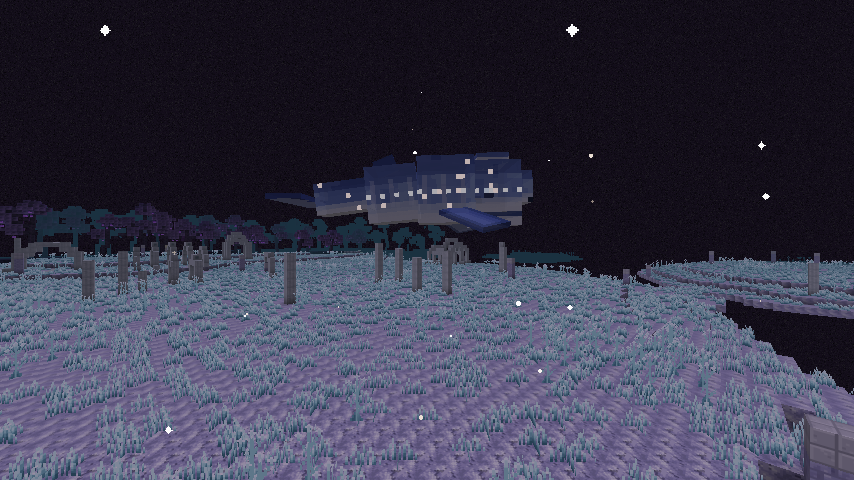
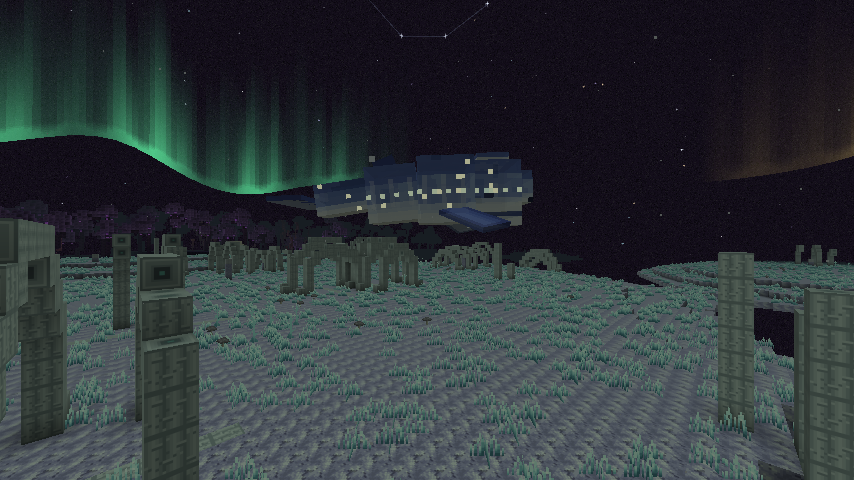
Phase 10 batch D, part 2: docs, Modrinth page and 1.0.0-beta.2
- README: the Phase 10 section (cuts, renames, new biomes and content,
  reworks, music credits) with in-game screenshots; status updated.
- Modrinth: description rewritten for beta.2, gallery refreshed (Chorus
  Thicket, Glimmering Crags, Resonant Spire, Whalefall; new screenshots for
  the rest), changelog for 1.0.0-beta.2.
- Version 1.0.0-beta.2. Trailer edit list gains the new biomes, the Spire
  Wyrm, the Resonant Spire and the Whalefall; the survey shoots the Wyrm.

Claude-Session: https://claude.ai/code/session_0155WfD2TeFRTvCBedvK2Yiv

diff --git a/src/main/java/com/ggrantrichards/astralend/dev/WorldgenSurvey.java b/src/main/java/com/ggrantrichards/astralend/dev/WorldgenSurvey.java
@@ -378,6 +378,7 @@ public final class WorldgenSurvey {
         mobShot(lines, areas.get('W'), end, "hollow", 3.0, 1.6, 2.0);
         mobShot(lines, areas.get('A'), end, "drift_whale side", 11.0, 7.0, 7.5);
         mobShot(lines, areas.get('N'), end, "watcher", 6.5, 0.5, 2.6);
+        mobShot(lines, areas.get('G'), end, "spire_wyrm", 16.0, 6.0, 5.0);
         mobShot(lines, areas.get('W'), end, "live_comet side", 14.0, 14.0, 4.0);
         // Phase 5: the sky and Sunstorms.
         skyShot(lines, areas.get('A'), "sky_ashen_barrens", -45.0F, -32.0F, null, "flare=calm");

diff --git a/tools/release/modrinth.py b/tools/release/modrinth.py
@@ -21,7 +21,7 @@ API = os.environ.get("MODRINTH_API", "https://api.modrinth.com/v2")   # overrida
 ROOT = Path(__file__).resolve().parents[2]
 SLUG = "the-astral-end"
 TITLE = "The Astral End"
-SUMMARY = ("The End, expanded: six new biomes, new creatures, a living sky with auroras and "
+SUMMARY = ("The End, expanded: seven new biomes, new creatures, a boss, a living sky with auroras and "
            "sunstorms, live comets, and ruins to explore.")
 GAME_VERSIONS = ["26.3"]
 LOADERS = ["forge"]

diff --git a/README.md b/README.md
@@ -4,36 +4,8 @@ A Forge mod for **Minecraft Java Edition 26.3** with **Forge 66.0.8** that expan
 into a sparse, mysterious network of astral islands. The full plan is in
 [docs/END_UPDATE.md](docs/END_UPDATE.md).
 
-**Status:** phases 1-9 done: biomes, mobs, the sky and Stellar Flares, structures, live comets, Starforging, and a polish pass. Mod ID: `astralend`.
-
-**Next, Phase 10: the Mojang pass.** Every feature gets held to what a real Mojang End update would
-ship: the hazards are defanged (no Flare Burn, no comet landfall, no Stalker void knockback), the
-materials consolidate to about three, Starforging gives way to a single smithing-table upgrade (Void
-Recall stays, on its own), the Black Hole Guardian, the Watcher, Comet Ice, the Cinder Mite and the
-inversion pockets are cut, the science names go, and the missing pieces come in: ties to the vanilla
-End (End Cities, chorus, gateways), music and ambience, and a reason to come back. The full list is in
-[the plan, section 14.1](docs/END_UPDATE.md#141-phase-10-the-mojang-pass).
-
-**Then Phase 11: new additions.** What a real End update would add, held to the same rules (fix the
-End's real problems, build on the vanilla End, a small sharp list, fantasy names, no unfair deaths or
-power creep) and keeping the End alien and stagnant, not lush:
-
-- **Biomes:** the vanilla barrens and highlands reworked into the **Ashen Barrens** (Ashdust muffles every
-  sound and blocks sculk vibrations) and the **Chorus Thicket** (brittle, bleached Chorus trees, Chorus
-  Wood, fall-cushioning Chorus Moss); new **Glimmering Crags** (dark teal **Nightstone**, Resonance
-  Crystals) and **Obsidian Wastes** (the Endermen's home, Fossilized End Ships).
-- **Mobs:** the **Drifter**, a void mount you hook with a fishing rod or saddle and steer with a Chorus
-  Flower on a Stick; the **Weaver**, whose Levitation Webs you can Silk Touch into jump pads; the
-  **Keeper**, an End City guardian that grounds gliders only over land; sparse **Chorus Moths**.
-- **Materials:** **Resonance Crystal** and **Rift Shards** (mined from island undersides; Rift Thread makes
-  an elytra wear 50% slower, nothing more).
-- **Blocks:** **Voidgel** (levitation pads), **End Chimes** (stop Endermen teleporting nearby), and the
-  **Resonance Anchor** (an Ender Pearl lays a 30-second bridge of light to it).
-- **The Resonant Spires**, climbed with webs, Voidgel and shulker bullets, with a **Resonance Vault** at
-  the top opened by a Weaver's key: banner patterns, a glowing cosmetic trim and a new music disc.
-- **Music and soundscapes** for all of it.
-
-The full spec is in [the plan, section 14.2](docs/END_UPDATE.md#142-phase-11-new-additions).
+**Status:** phases 1-10 done. Mod ID: `astralend`. Phase 10 reworked the whole mod toward what a real
+Mojang End update would ship - see [Phase 10](#phase-10-the-rework) below, which also lists every rename.
 
 [![Fifteen seconds of the trailer, filmed in the game. Click for the full trailer on YouTube.](docs/modrinth/teaser.webp)](https://youtu.be/ZUQVTpnqRTQ)
 
@@ -41,7 +13,7 @@ The full spec is in [the plan, section 14.2](docs/END_UPDATE.md#142-phase-11-new
 
 ## Get it
 
-The first public build, **1.0.0-beta.1**, is published to Modrinth as
+The current build, **1.0.0-beta.2**, is published to Modrinth as
 [**The Astral End**](https://modrinth.com/mod/the-astral-end) (a beta: blocks and items may still be
 renamed or removed before 1.0, so back up worlds you care about). It needs **Minecraft 26.3** and
 **Forge 66** or newer, on both the client and the server. MIT licensed (see [LICENSE](LICENSE)).
@@ -52,6 +24,77 @@ project page lives in [docs/modrinth/](docs/modrinth/): the icon, the gallery, t
 changelog for each version.
 
 ## What's in the mod so far
+
+The sections below run newest first. Older ones describe things as they were at the time; Phase 10
+renamed or removed some of them.
+
+### Phase 10: the rework
+
+**Cut:** the clockwork Orrery cluster (the Abandoned Orrery, Orrery Bronze and its family, the Orrery
+Heart, Shutters and Lamp, the Orrery Sentinel), and Comet Ice (comets bring vanilla blue ice now).
+
+**Renamed:**
+
+| Was | Now |
+|---|---|
+| Dark Matter Belt | Hollow Isles |
+| Aurora Shallows | Ashen Barrens |
+| Black Hole Guardian | The Hollow |
+| Corona Skimmer, Skimmer Film | Void Ray, Ray Film |
+| Singularity Shard | Abyss Shard |
+| Wormhole Maw | Rift Maw |
+| Gravity Anomaly / inversion pockets | Upwell Core / Upwells |
+| Stellar Flares, Flare Burn, Flare Ward | Sunstorms, Sunburn, Sun Ward |
+| Umbral Stone | Nightstone |
+| Nebula Moss | Chorus Moss |
+
+**New biomes** (the outer End now has seven):
+
+- **Chorus Thicket**, the Nebula Fields' sister: chorus trees of pale, glassy **Chorus Wood** (a full
+  wood set, regrown from **Chorus Sprouts**) crowned with Chorus Bloom, vanilla chorus between them.
+- **Glimmering Crags**: islands bristling with jagged Nightstone peaks grown through with teal
+  **Glimmer Crystal**. **Void Crystal** grows only here now, in the very bottoms of the islands, with a
+  Glimmer Cluster hanging under it to give it away.
+- The **Shattered Observatory** is a rare structure now, not a biome: the Cartographers' domed hall in a
+  ring of fallen quartz pillars, overgrown with Starblooms, watched over by shulkers - and the Watcher.
+- The **Ashen Barrens** are the dead country: no Pollinators, no Endermen, ash in the air, withered
+  Lumineshrooms, more bones. The auroras stay.
+
+**New things:**
+
+- **The Resonant Spires** (Glimmering Crags): ninety-block hollow towers with no stairs - climb them on
+  shulker bullets or a Potion of Upwelling - and the **Spire Wyrm** at the top, a serpent kin of the
+  Ender Dragon. It coils through the tower, lunges, and breathes lingering void breath; flying it takes
+  half damage, but **ring a bell** on a ledge as it passes and it crashes, stunned, onto the ledge. It
+  drops the **Resonant Key** for the **Resonance Vault**: the Wyrm and Spire banner patterns, the
+  **Eclipse** armor trim, the music disc **"Observing the Star"**, a Starforge Template and more.
+- **The Whalefall** is a landmark now: the skeleton of a Star Leviathan adrift in the void, about 100
+  blocks high and 300 long, its skull hollowed into floors and a village built on decks in its ribcage.
+- **Potion of Upwelling**, brewed from **Upwell Motes** that drift up through Upwells: gravity reversed,
+  up to 20 blocks (hit a ceiling and it hurts like a fall), then Slow Falling as it wears off.
+- **Voidgel**: bouncy jelly from island undersides that also gives Slow Falling.
+- **End Chimes** (End Rods and amethyst): light and a low hum; a teleport within 16 blocks rings them,
+  and nothing else teleports there for 10 seconds.
+- **Lodestar** (Lodestone + Meteoric Iron): no comet lands within 48 blocks of one.
+- **Chorus Flower on a Stick**: ride a **Drift Whale** and steer it where you look.
+
+**Reworked:** the Drift Whale (400 health and killable - it never fights back, it flees; feed it Chorus
+Fruit; it grazes on chorus), the Umbral Stalker (senses you through walls, snuffs out lights for good
+while hunting - only with `mobGriefing` - and flees fire; no more throws toward the void), the Void Ray
+(a back dark as the void, gold-edged wings), the Void Wanderer (End City purpur, no more bronze), one
+Charged Void Crystal lights two Rift Maw eyes, the Bottled Flare is furnace fuel, chorus and Endermen
+live only in the living biomes, and **Starforging** is softer (Echo Strike 10%, Time Stretch and Lensing
+5% a piece, Heat Shield 1 s a piece, Soak Light half a heart), its alloy needs Dragon's Breath, and its
+templates turn up in End City treasure.
+
+**Music** for the astral biomes, all free to use - see [sounds/CREDITS.txt](src/main/resources/assets/astralend/sounds/CREDITS.txt):
+"Out There" by yd, "Ambient Relaxing Loop" and "Heavenly Loop" by isaiah658, "Observing the Star" by
+madeso (all CC0), and "Space Music" by HitCtrl (CC-BY 3.0).
+
+![The Chorus Thicket](docs/images/phase10/chorus_thicket.png)
+![The Glimmering Crags](docs/images/phase10/glimmering_crags.png)
+![A Resonant Spire, with the Spire Wyrm's boss bar](docs/images/phase10/resonant_spire.png)
+![The Whalefall, adrift in the void](docs/images/phase10/whalefall.png)
 
 ### Phase 9: polish
 

diff --git a/docs/modrinth/description.md b/docs/modrinth/description.md
@@ -6,69 +6,75 @@ light and its own secrets.
 
 <iframe width="560" height="315" src="https://www.youtube-nocookie.com/embed/ZUQVTpnqRTQ" title="The Astral End - Official Trailer" frameborder="0" allow="accelerometer; autoplay; clipboard-write; encrypted-media; gyroscope; picture-in-picture" allowfullscreen></iframe>
 
-**[Watch the trailer on YouTube](https://youtu.be/ZUQVTpnqRTQ)**: filmed entirely in-game.
+**[Watch the trailer on YouTube](https://youtu.be/ZUQVTpnqRTQ)**: filmed entirely in-game (before the beta.2 rework).
 
-> **Beta.** This is the first public build. Expect changes before 1.0, including blocks and items that
-> are renamed, reworked or removed. Keep backups of worlds you care about.
+> **Beta.** Expect changes before 1.0, including blocks and items that are renamed, reworked or
+> removed. Keep backups of worlds you care about.
 
 {{Nebula Fields}}
 
-## Five new biomes
+## Seven new biomes
 
-- **Nebula Fields:** rolling violet moss under forests of giant glowing Lumineshrooms. Low gravity: you
-  fall slower and jump higher.
-- **Ashen Barrens:** vast pale shelves under slow green and gold auroras, ribs of ancient bone in the
-  ground.
+- **Nebula Fields:** rolling violet Chorus Moss under forests of giant glowing Lumineshrooms. Low gravity:
+  you fall slower and jump higher.
+- **Chorus Thicket:** crowded chorus trees of pale, glassy Chorus Wood, crowned in Chorus Bloom.
+- **Glimmering Crags:** jagged Nightstone peaks grown through with teal Glimmer Crystal - and, in the very
+  bottoms of the islands, the End's rarest ore, Void Crystal.
+- **Ashen Barrens:** a dead country of pale shelves and old bones under slow green and gold auroras.
 - **The Corona:** sunscorched mesas, Flarebloom fields, and the End's best ore, Solarite.
 - **Comet Wake:** scorched islands pocked with craters, Stardust that falls *upward*, and Meteoric Iron.
-- **Hollow Isles:** dim Nullwood forests on ring-shaped islands, and Void Crystal.
+- **Hollow Isles:** dim Nullwood forests on ring-shaped islands, and Upwells where gravity points up.
 
-Two new wood sets (Lumine and Nullwood), several stone families, glowing plants and lights.
+Three new wood sets (Lumine, Nullwood and Chorus), several stone families, glowing plants and lights.
 
-{{Ashen Barrens}}
+{{Chorus Thicket}}
+
+{{Glimmering Crags}}
 
 ## A living sky
 
 Stars that turn, auroras, and the Remnant, the dying ember of a collapsed star, low on the horizon. In
 the Corona, **Sunstorms** turn the sky gold: Flareblooms open, Void Rays take to the air, and the
-solar wind pushes your elytra along.
+solar wind pushes your elytra along. Now and then a **live comet** streaks past: glide through its tail,
+or knock chunks off its head. A **Lodestar** keeps them from landing near your base.
 
 {{A Sunstorm}}
 
 ## New creatures
 
-- **Drift Whale:** a huge, translucent whale swimming slowly through the void. It turns toward you and
-  hums.
-- **Void Wanderer:** a clockwork construct that floats over and studies you. Hold still and it leaves
-  you a piece of its star map.
-- **End Pollinator:** a little drifter that spreads glowing plants and leaves Glowing Spores.
-- **Void Ray:** a flat manta that rides the flares. Shear it for Ray Film.
-- **Umbral Stalker:** a shadow you can't see in the dark until it hunts you. Light reveals it.
-- And a few more, for you to find.
+- **Drift Whale:** a huge, translucent whale swimming slowly through the void. Ride it with a Chorus
+  Flower on a Stick.
+- **Spire Wyrm:** a serpent kin of the Ender Dragon, coiled atop the Resonant Spires. Ring the bells.
+- **Umbral Stalker:** a shadow that always knows where you are, and snuffs out your lights. It fears fire.
+- **Void Wanderer**, **End Pollinator**, **Void Ray**, **Cinder Mite**, **The Hollow**, and the **Watcher**.
 
 {{Drift Whale}}
 
-## Live comets
+## Places to find
 
-Now and then a comet streaks past. Glide through its tail with an elytra and it sweeps you along; hit
-its head to knock off Stardust, blue ice or Meteoric Iron.
+- **Resonant Spires:** ninety-block towers with no stairs. Climb them on shulker bullets or a Potion of
+  Upwelling, beat the Spire Wyrm, and open the **Resonance Vault**: banner patterns, the Eclipse armor
+  trim, a music disc and more.
+- **The Whalefall:** the skeleton of a Star Leviathan adrift in the void, 300 blocks long, built into
+  by whoever came after.
+- **The Shattered Observatory**, **Rift Maws** that carry you across the End, **Constellation Mazes**,
+  **Comet Craters** and **Solar Arrays**.
 
-{{A live comet}}
+{{Resonant Spire}}
 
-## Ruins of the Cartographers
+{{Whalefall}}
 
-Someone mapped the End before you. Find the **Shattered Observatory**, a domed hall in a great ring
-of fallen pillars, and open its vaults with a Chart Fragment; ride a **Rift Maw** across the End; and
-light the star-bridges of a **Constellation Maze**.
+## Starforging
 
-{{Rift Maw}}
+An Astral Forge upgrades diamond and netherite gear with six Starforge upgrades - small, stacking perks
+like Echo Strike, Lensing and Void Recall - using Starforge Alloy (Dragon's Breath binds it) and
+Templates found in ruins and End Cities.
 
-{{Shattered Observatory}}
+## Music
 
-## Building blocks
-
-Lumine and Nullwood wood sets, Nightstone, Sunscorched Stone, Pale End Stone, Observatory Quartz
-and Astral Glass with stars caught in it.
+Music for the astral biomes and a music disc, all free to use: "Out There" by yd, "Ambient Relaxing
+Loop" and "Heavenly Loop" by isaiah658, "Observing the Star" by madeso (CC0), and "Space Music" by
+HitCtrl (CC-BY 3.0), from OpenGameArt.org.
 
 ## Requirements
 

diff --git a/docs/modrinth/changelog/1.0.0-beta.2.md b/docs/modrinth/changelog/1.0.0-beta.2.md
@@ -1,0 +1,30 @@
+**The rework.** A big beta: much of the mod has been reworked toward what a real Minecraft End update
+would ship. **Back up your worlds:** several blocks and items were renamed or removed, and the biome
+layout of the outer End changed, so explore new parts of the End to see the new content.
+
+**New**
+- Two new biomes: the **Chorus Thicket** (chorus trees of glassy Chorus Wood, a full wood set) and the
+  **Glimmering Crags** (jagged Nightstone peaks and teal Glimmer Crystal; Void Crystal now grows only
+  in the bottoms of these islands).
+- **Resonant Spires** and their mini-boss, the **Spire Wyrm** - ring the bells to bring it down. Its
+  Resonant Key opens the **Resonance Vault**: two banner patterns, the Eclipse armor trim and a music disc.
+- **The Whalefall** is now a colossal landmark adrift in the void, built into by those who came after.
+- **Potion of Upwelling** (from Upwell Motes), **Voidgel**, **End Chimes**, the **Lodestar**, and the
+  **Chorus Flower on a Stick** to ride Drift Whales.
+- **Music** for the astral biomes and the disc "Observing the Star" (all free to use; credits in the mod).
+
+**Changed**
+- Renamed: Dark Matter Belt → Hollow Isles, Aurora Shallows → Ashen Barrens, Black Hole Guardian → The
+  Hollow, Corona Skimmer → Void Ray, Singularity Shard → Abyss Shard, Wormhole Maw → Rift Maw, gravity
+  inversion pockets → Upwells, Stellar Flares → Sunstorms, Umbral Stone → Nightstone, Nebula Moss →
+  Chorus Moss.
+- The Shattered Observatory is a structure now, not a biome. The Ashen Barrens are a dead biome.
+- Drift Whales can be ridden (and killed - they never fight back). The Umbral Stalker senses you through
+  walls, snuffs out lights (with mobGriefing on) and flees fire; it no longer throws you toward the void.
+- Starforge upgrades are smaller; the alloy needs Dragon's Breath; templates also turn up in End Cities.
+- Comets bring blue ice; one Charged Void Crystal lights two Rift Maw eyes; chorus and Endermen live
+  only in the living biomes.
+
+**Removed**
+- The Abandoned Orrery and everything clockwork (Orrery Bronze and its family, the Orrery Heart,
+  Shutters, Lamp and Sentinel), and Comet Ice.
